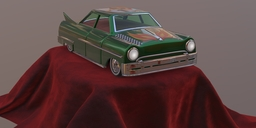
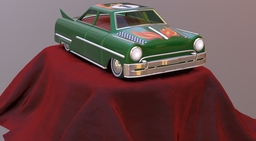
Screenshot from Babylon.js Sandbox
Screenshot changed to Babylon.js Sandbox, from glTF Sample Viewer, to better match the original screenshot. Babylon.js also shows better rendering quality for the new occlusion maps.

diff --git a/2.0/ToyCar/README.md b/2.0/ToyCar/README.md
@@ -4,6 +4,8 @@
 
 ![screenshot](screenshot/screenshot_large.jpg)
 
+Above: Screenshot using Camera002 in [Babylon.js Sandbox](https://sandbox.babylonjs.com/).
+
 ## Description
 
 This model demonstrates the usage of [KHR_materials_sheen](https://github.com/KhronosGroup/glTF/blob/master/extensions/2.0/Khronos/KHR_materials_sheen/README.md), [KHR_materials_transmission](https://github.com/KhronosGroup/glTF/blob/master/extensions/2.0/Khronos/KHR_materials_transmission/README.md) and [KHR_materials_clearcoat](https://github.com/KhronosGroup/glTF/blob/master/extensions/2.0/Khronos/KHR_materials_clearcoat/README.md).
